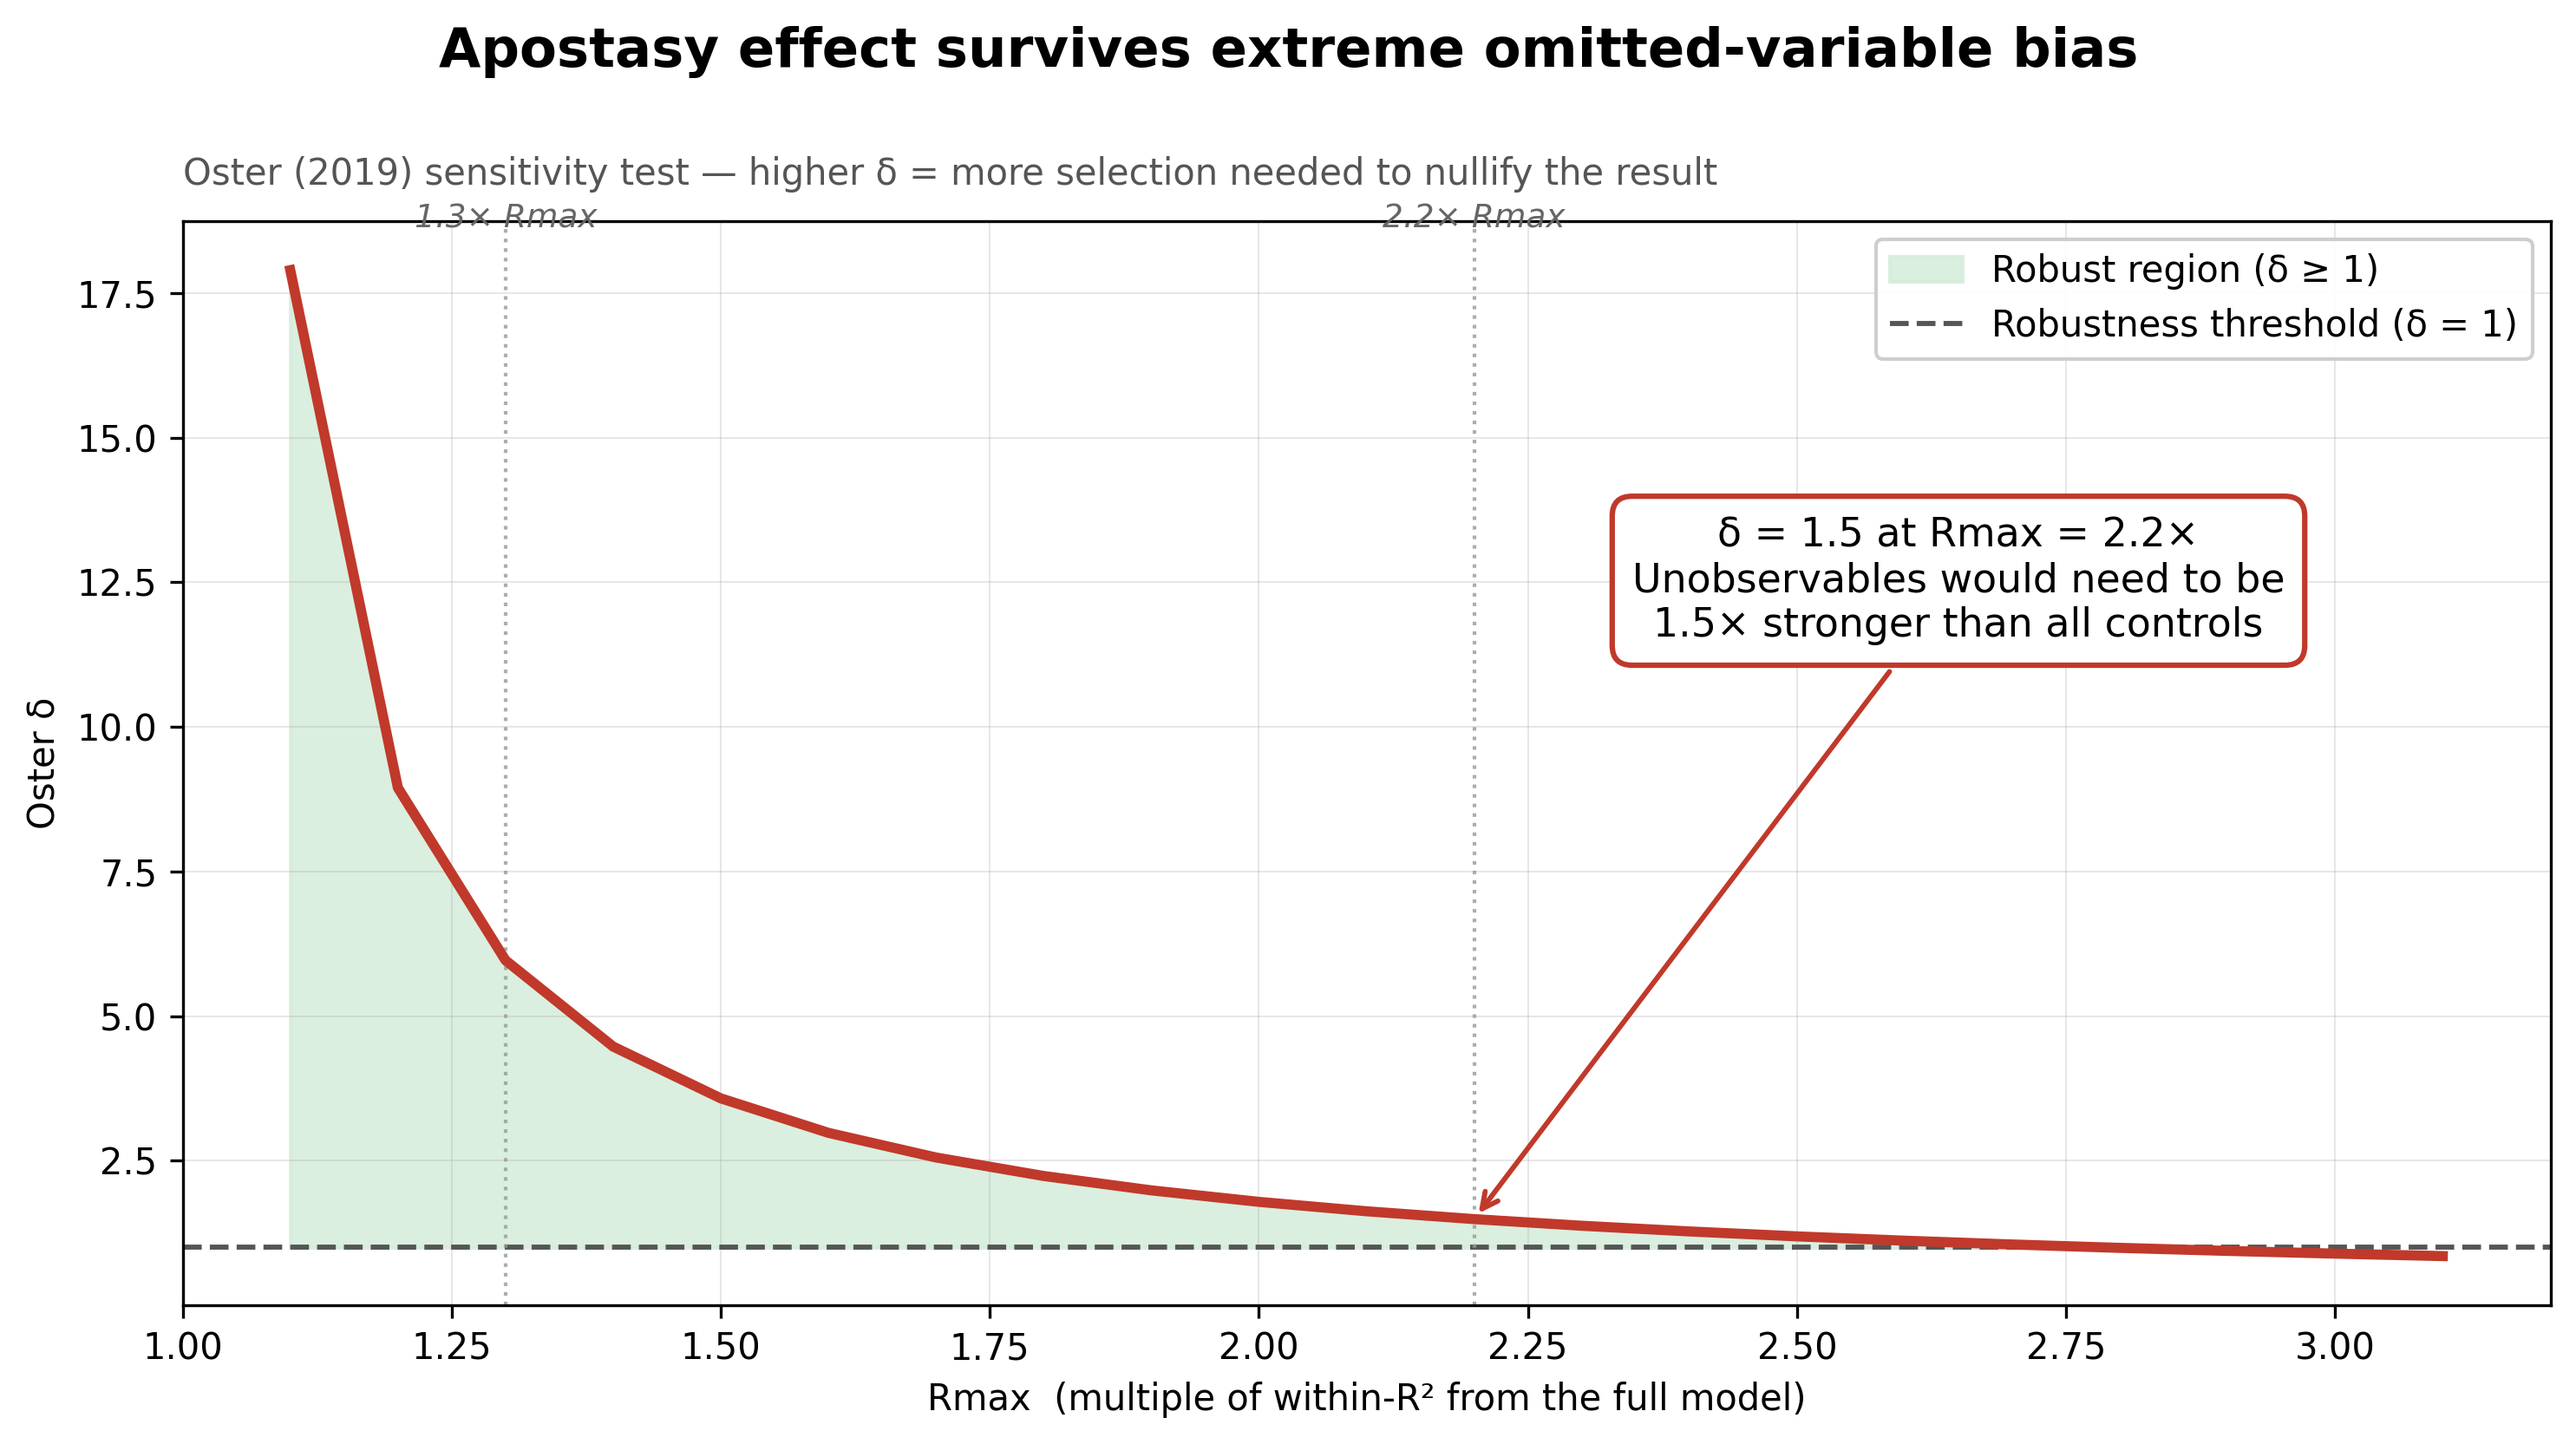
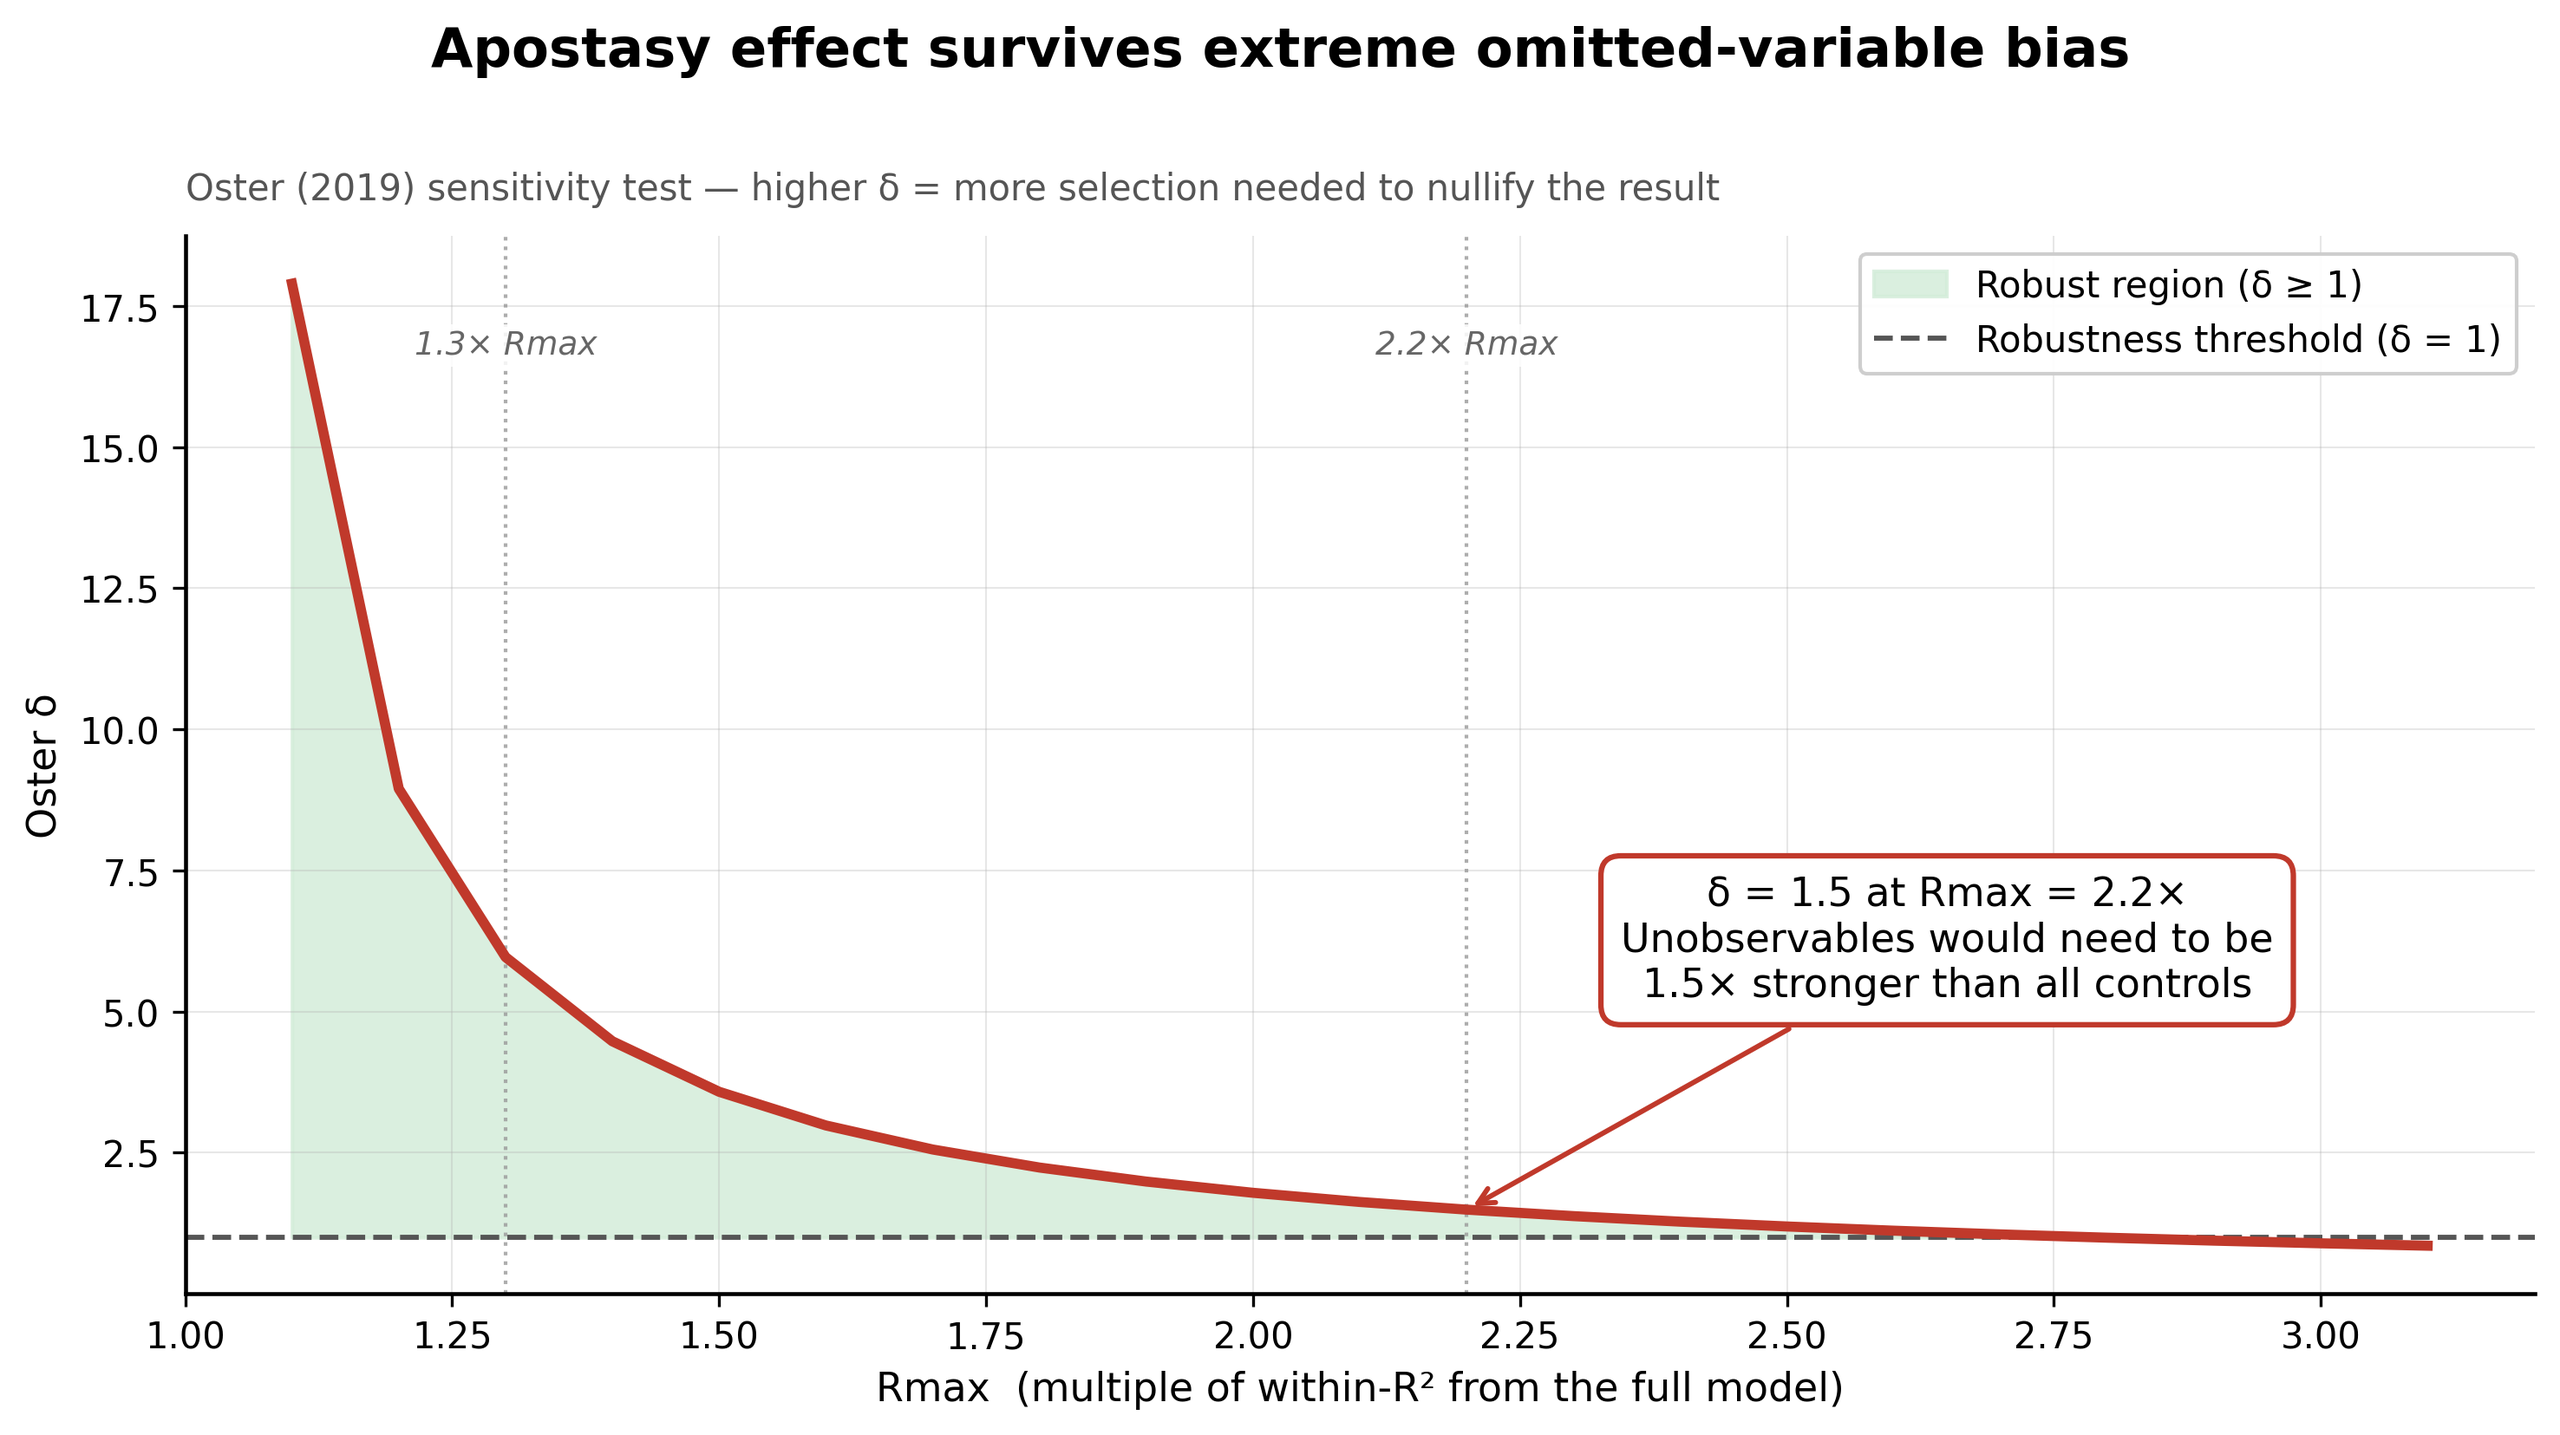
sorted formatting for 09 graph

diff --git a/analysis/run_plots.py b/analysis/run_plots.py
@@ -332,7 +332,7 @@ def plot_scatter(df: pd.DataFrame):
     )
 
     fig.suptitle(
-        "Composite secularism and apostasy laws: clear negative correlations with female welfare.",
+        "Composite secularism and apostasy laws: clear negative correlations with female welfare",
         fontsize=16, fontweight="bold", y=1.06,
     )
     fig.text(
@@ -930,23 +930,27 @@ def plot_oster_sensitivity():
     ax.axhline(1.0, color="#555", linewidth=1.4, linestyle="--",
                label="Robustness threshold (δ = 1)")
 
-    # Oster benchmark lines — labels at top of plot, away from the curve / annotation box
+    # Oster benchmark lines — labels placed inside the axes (upper strip), with
+    # a white bbox so they stay readable over the grid / green fill. Keeps the
+    # top strip clear for the suptitle + subtitle.
     y_top = df["delta_clipped"].max()
-    label_y = y_top * 1.02
+    label_y = y_top * 0.93
     for xval, lbl in [(1.3, "1.3×"), (2.2, "2.2×")]:
         ax.axvline(xval, color="#999", linewidth=1.0, linestyle=":", alpha=0.8)
         ax.annotate(lbl + " Rmax", xy=(xval, label_y),
-                    xytext=(0, 6), textcoords="offset points",
+                    xytext=(0, 0), textcoords="offset points",
                     fontsize=9, ha="center", color="#666", style="italic",
-                    annotation_clip=False)
+                    bbox=dict(facecolor="white", edgecolor="none",
+                              alpha=0.85, pad=1.5))
 
-    # Headline delta annotation at 2.2x — placed in upper-right of empty area
+    # Headline delta annotation at 2.2x — dropped closer to the curve so the
+    # arrow is short and the upper-right feels balanced.
     d22 = df.loc[(df["rmax_mult"] - 2.2).abs().idxmin()]
     if abs(d22["rmax_mult"] - 2.2) < 0.2:
         x_max = df["rmax_mult"].max()
         # Place box in the empty upper-right region above the curve plateau
         box_x = (2.2 + x_max) / 2
-        box_y = y_top * 0.7
+        box_y = y_top * 0.35
         ax.annotate(
             f"δ = {d22['delta']:.1f} at Rmax = 2.2×\n"
             f"Unobservables would need to be\n"
@@ -1196,7 +1200,7 @@ def plot_wbl_groups():
         fontsize=15, fontweight="bold", y=1.00,
     )
     ax.set_title(
-        "Domain breakdown: every WBL component is null at p < 0.05.",
+        "Domain breakdown: every WBL component is null at p < 0.05",
         fontsize=10, fontweight="normal", color="#555",
         loc="left", pad=10,
     )
@@ -1285,7 +1289,7 @@ def plot_world_map():
         fontsize=16, fontweight="bold", y=0.97,
     )
     ax.set_title(
-        "Equal-weight z-score across institutional, attitudinal, behavioural dimensions. Grey = no data.",
+        "Equal-weight z-score across institutional, attitudinal, behavioural dimensions. Grey = no data",
         fontsize=10, fontweight="normal", color="#555",
     )
 
